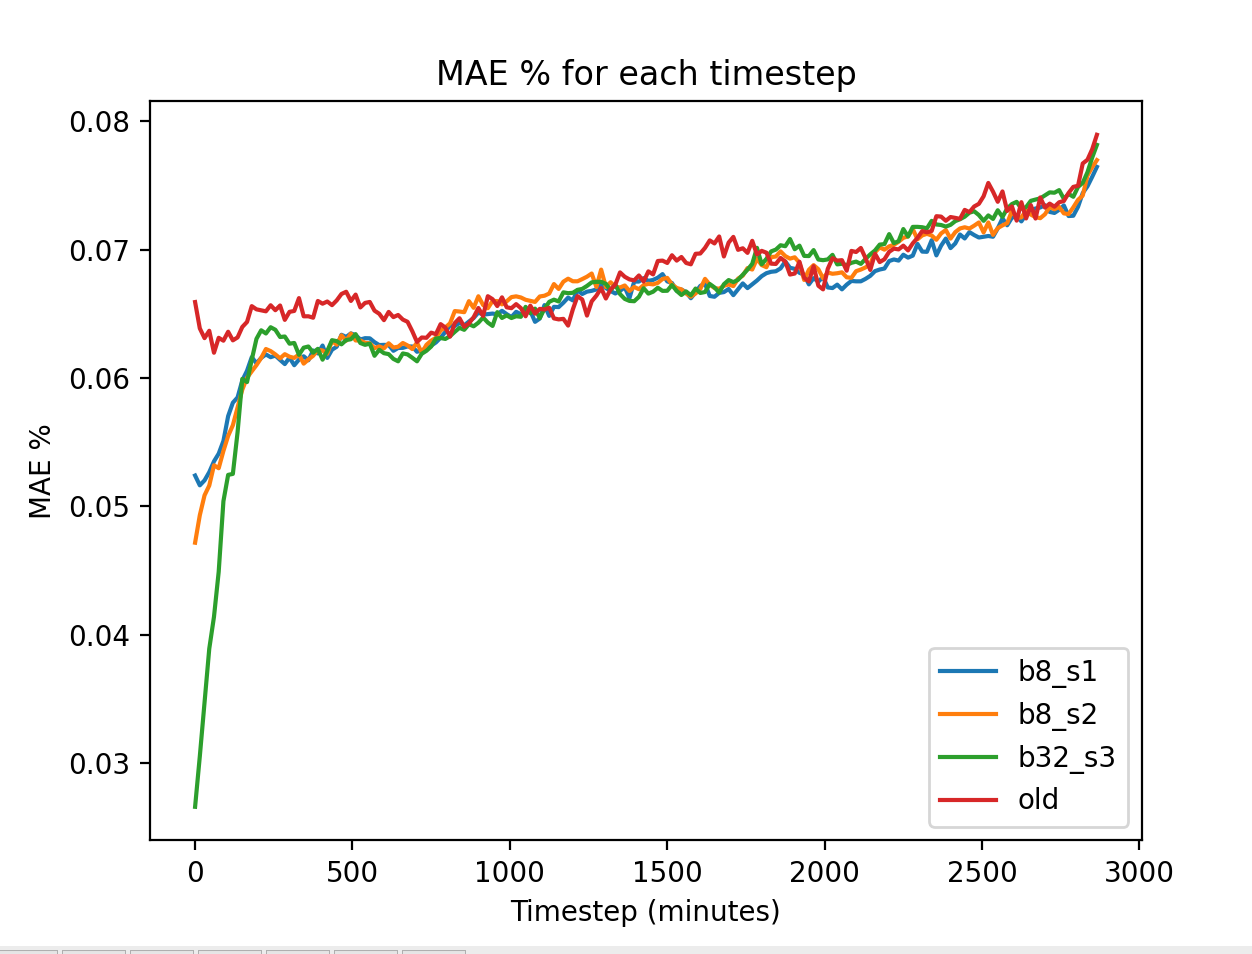
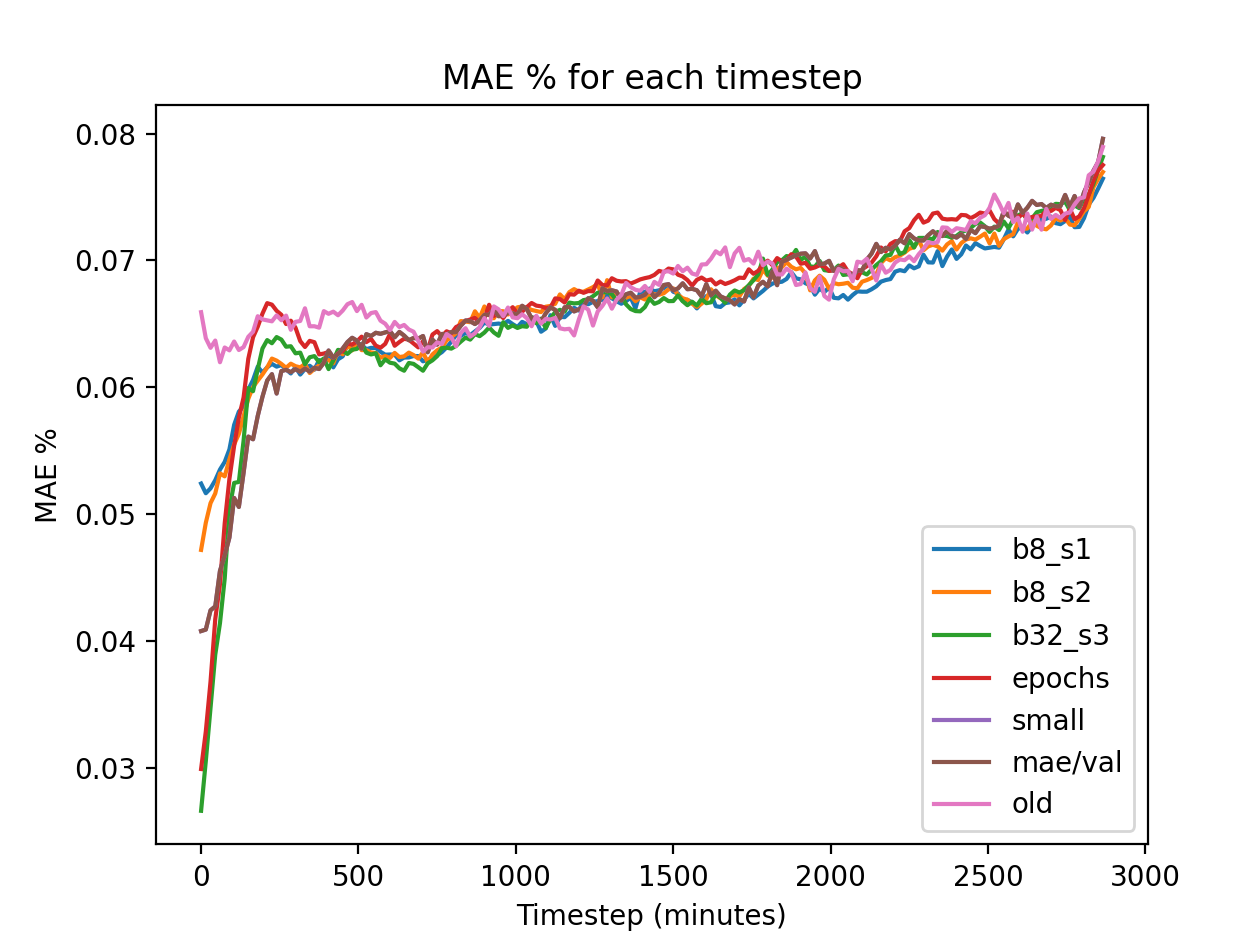
update results

Changed region(s): [[0.0, 0.0617, 0.9485, 0.9872], [0.0, 0.9872, 0.3671, 1.0]]

diff --git a/experiments/india/008_coarse4/readme.md b/experiments/india/008_coarse4/readme.md
@@ -23,6 +23,20 @@ https://wandb.ai/openclimatefix/india/runs/k4x1tunj
 Batch size 32, with 0.2 degree NWP data. Also kept the learning rate a bit higher
 https://wandb.ai/openclimatefix/india/runs/ktale7pa
 
+### epochs
+We set the early stopping epochs from 10 to 15. This should mean model will train a bit more
+https://wandb.ai/openclimatefix/india/runs/8hfc83uv
+
+### small model
+We made the model about 50% of the size by reduce the reducing the channels in the NWP encoder fomr 256 to 64 and reducing the hidden features in the output network fomr 1024 to 256
+https://wandb.ai/openclimatefix/india/runs/sk5ek3pk
+
+
+### early stopping on MAE/val
+Changing from quantile_loss to MAE/val to stop early on. This should mean the model does more training epochs, and the results we are interested int.  
+https://wandb.ai/openclimatefix/india/runs/a5nkkzj6
+
+
 ### old
 Old experiment with 0.1 degree NWP data. 
 https://wandb.ai/openclimatefix/india/runs/m46wdrr7.
@@ -34,25 +48,28 @@ Need to check that 32 batches were being passed through.
 ## Results
 
 The coarsening data does seem to improve the experiments results in the first 10 hours of the forecast.
-DA forecast looks very similar. 
+DA forecast looks very similar. Note the 0 hour forecast has a large amount of variation. 
 
-Still spike results in the individual runs
+Still spike results in the individual runs. 
 
-| Timestep | b8_s1 MAE % | b8_s2 MAE % | b32_s3 MAE % | old MAE % |
-| --- | --- | --- | --- | --- |
-| 0-0 minutes | 0.052 | 0.047 | 0.027 | 0.066 |
-| 15-15 minutes | 0.052 | 0.049 | 0.031 | 0.064 |
-| 30-45 minutes | 0.052 | 0.051 | 0.037 | 0.063 |
-| 45-60 minutes | 0.053 | 0.052 | 0.040 | 0.063 |
-| 60-120 minutes | 0.056 | 0.054 | 0.048 | 0.063 |
-| 120-240 minutes | 0.061 | 0.060 | 0.060 | 0.065 |
-| 240-360 minutes | 0.061 | 0.062 | 0.063 | 0.065 |
-| 360-480 minutes | 0.062 | 0.062 | 0.062 | 0.066 |
-| 480-720 minutes | 0.063 | 0.063 | 0.062 | 0.065 |
-| 720-1440 minutes | 0.065 | 0.066 | 0.065 | 0.066 |
-| 1440-2880 minutes | 0.069 | 0.070 | 0.071 | 0.071 |
+| Timestep | b8_s1 MAE % | b8_s2 MAE % | b32_s3 MAE % | epochs MAE % | small MAE % | mae/val MAE % | old MAE % |
+| --- | --- | --- | --- | --- | --- | --- | --- |
+| 0-0 minutes | 0.052 | 0.047 | 0.027 | 0.030 | 0.041 | 0.041 | 0.066 |
+| 15-15 minutes | 0.052 | 0.049 | 0.031 | 0.033 | 0.041 | 0.041 | 0.064 |
+| 30-45 minutes | 0.052 | 0.051 | 0.037 | 0.039 | 0.043 | 0.043 | 0.063 |
+| 45-60 minutes | 0.053 | 0.052 | 0.040 | 0.043 | 0.044 | 0.044 | 0.063 |
+| 60-120 minutes | 0.056 | 0.054 | 0.048 | 0.052 | 0.048 | 0.048 | 0.063 |
+| 120-240 minutes | 0.061 | 0.060 | 0.060 | 0.064 | 0.057 | 0.057 | 0.065 |
+| 240-360 minutes | 0.061 | 0.062 | 0.063 | 0.065 | 0.061 | 0.061 | 0.065 |
+| 360-480 minutes | 0.062 | 0.062 | 0.062 | 0.063 | 0.063 | 0.063 | 0.066 |
+| 480-720 minutes | 0.063 | 0.063 | 0.062 | 0.064 | 0.064 | 0.064 | 0.065 |
+| 720-1440 minutes | 0.065 | 0.066 | 0.065 | 0.067 | 0.066 | 0.066 | 0.066 |
+| 1440-2880 minutes | 0.069 | 0.070 | 0.071 | 0.071 | 0.071 | 0.071 | 0.071 |
 
 
 ![](mae_step.png "mae_steps")
 
 ![](mae_step_smooth.png "mae_steps")
+
+I think its worth noting the model traing MAE is around `3`% and the validation MAE is about `7`%, so there is good reason to believe that the model is over fit to the trianing set. 
+It would be good to plot some of the trainin examples, to see if they are less spiky. 
